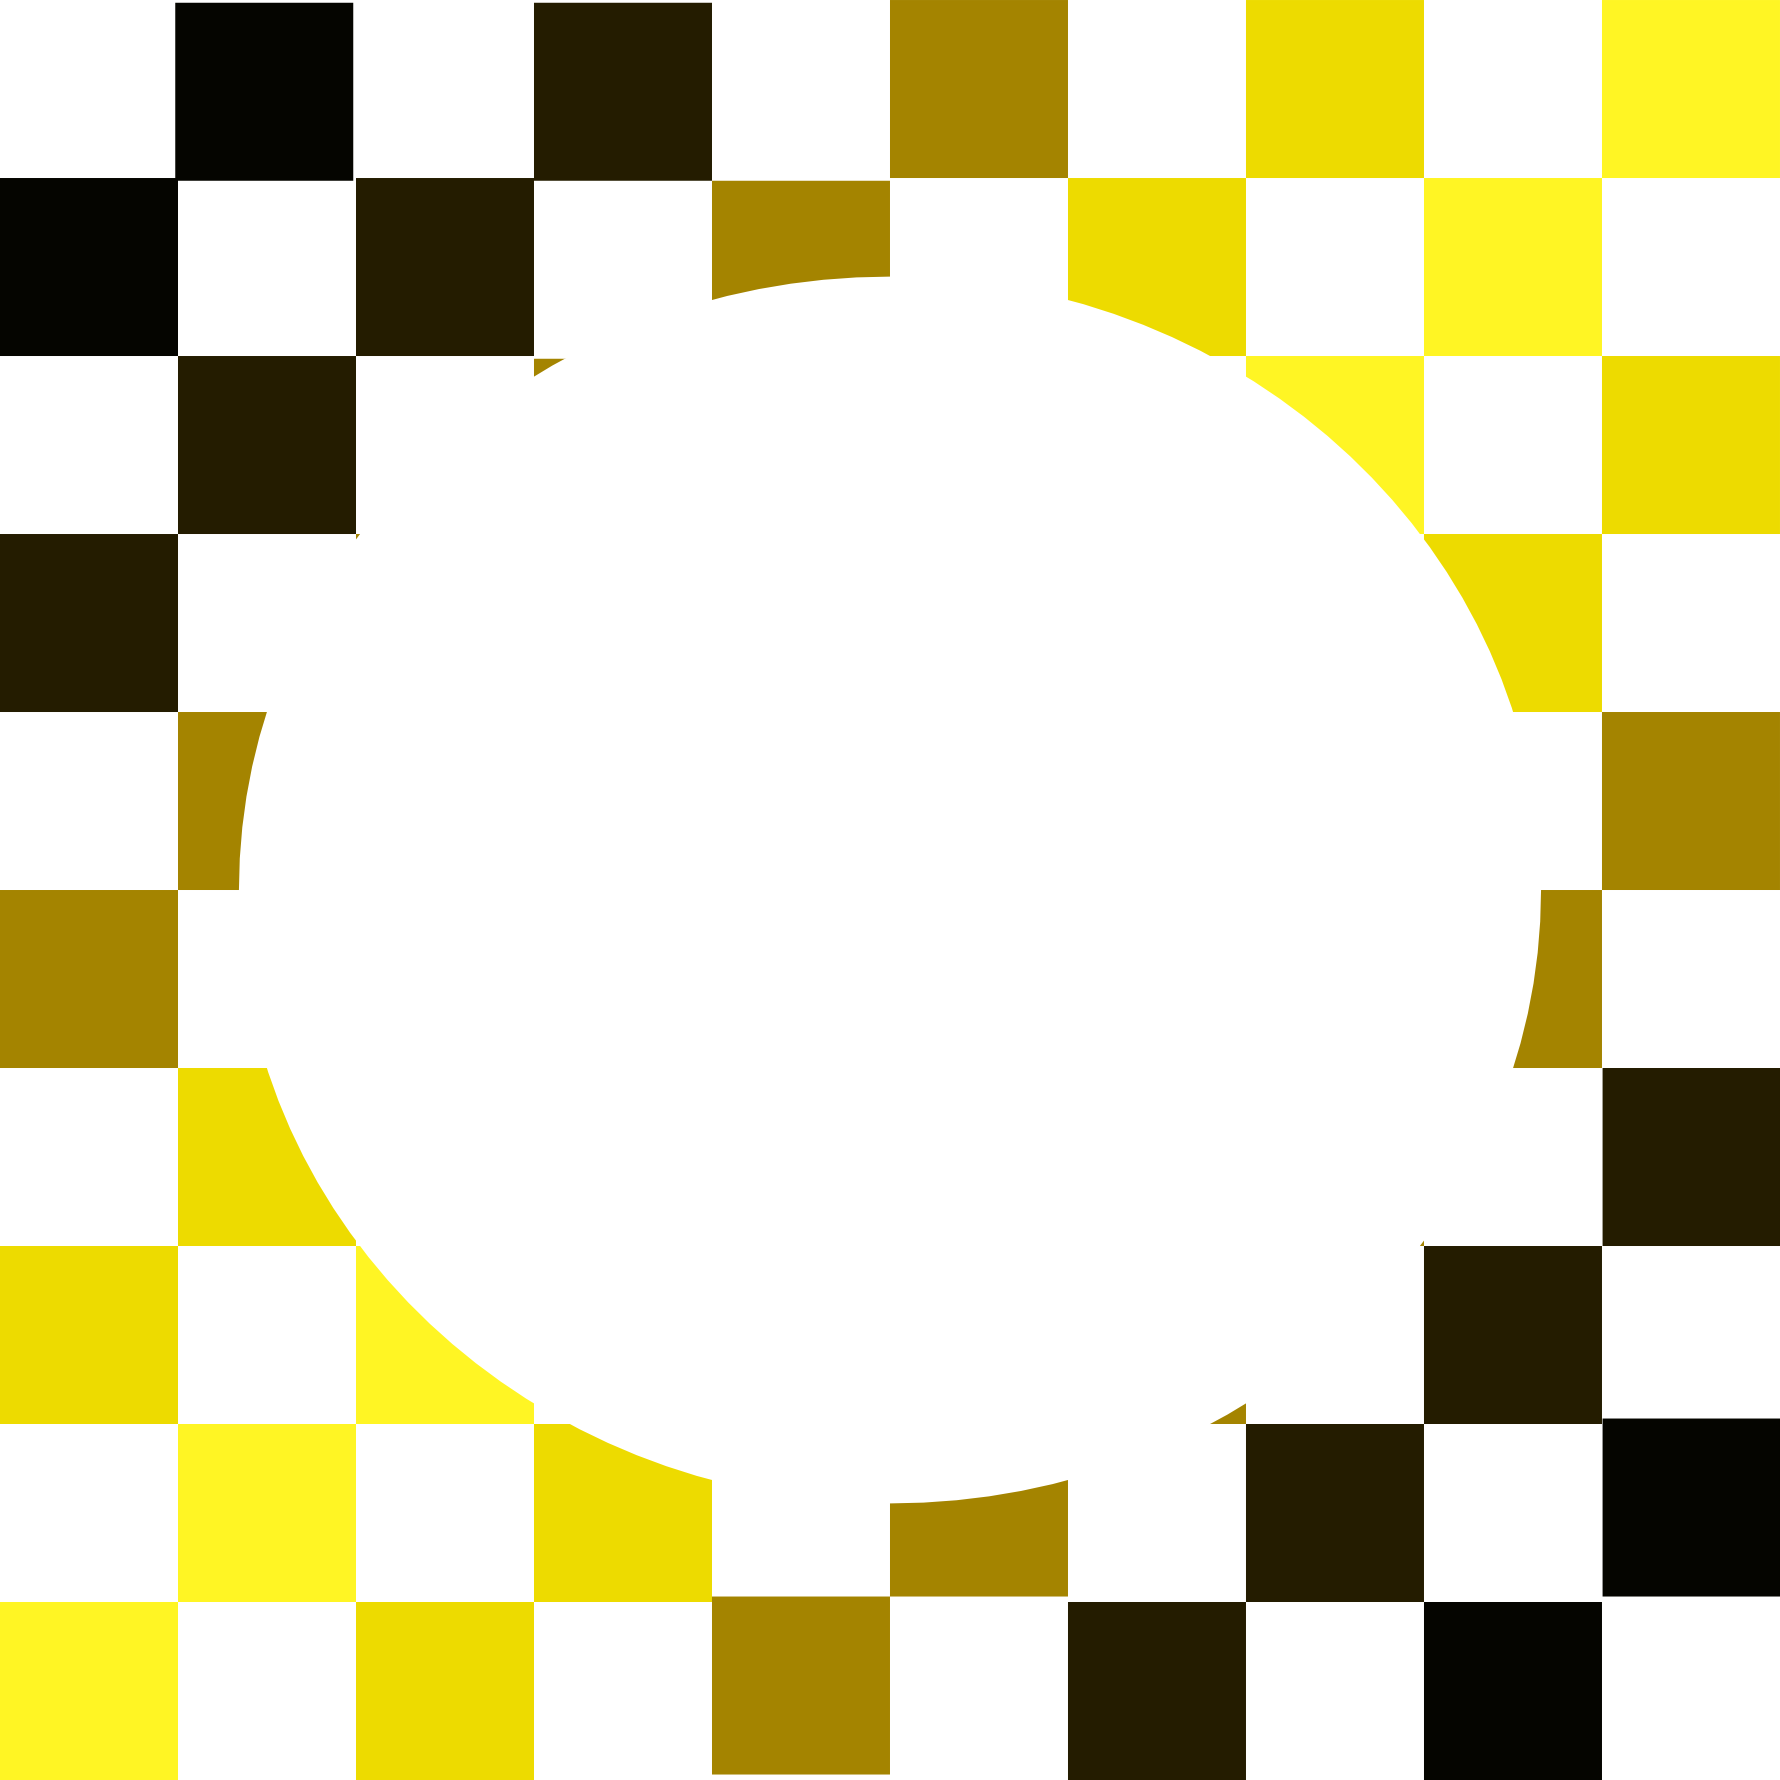
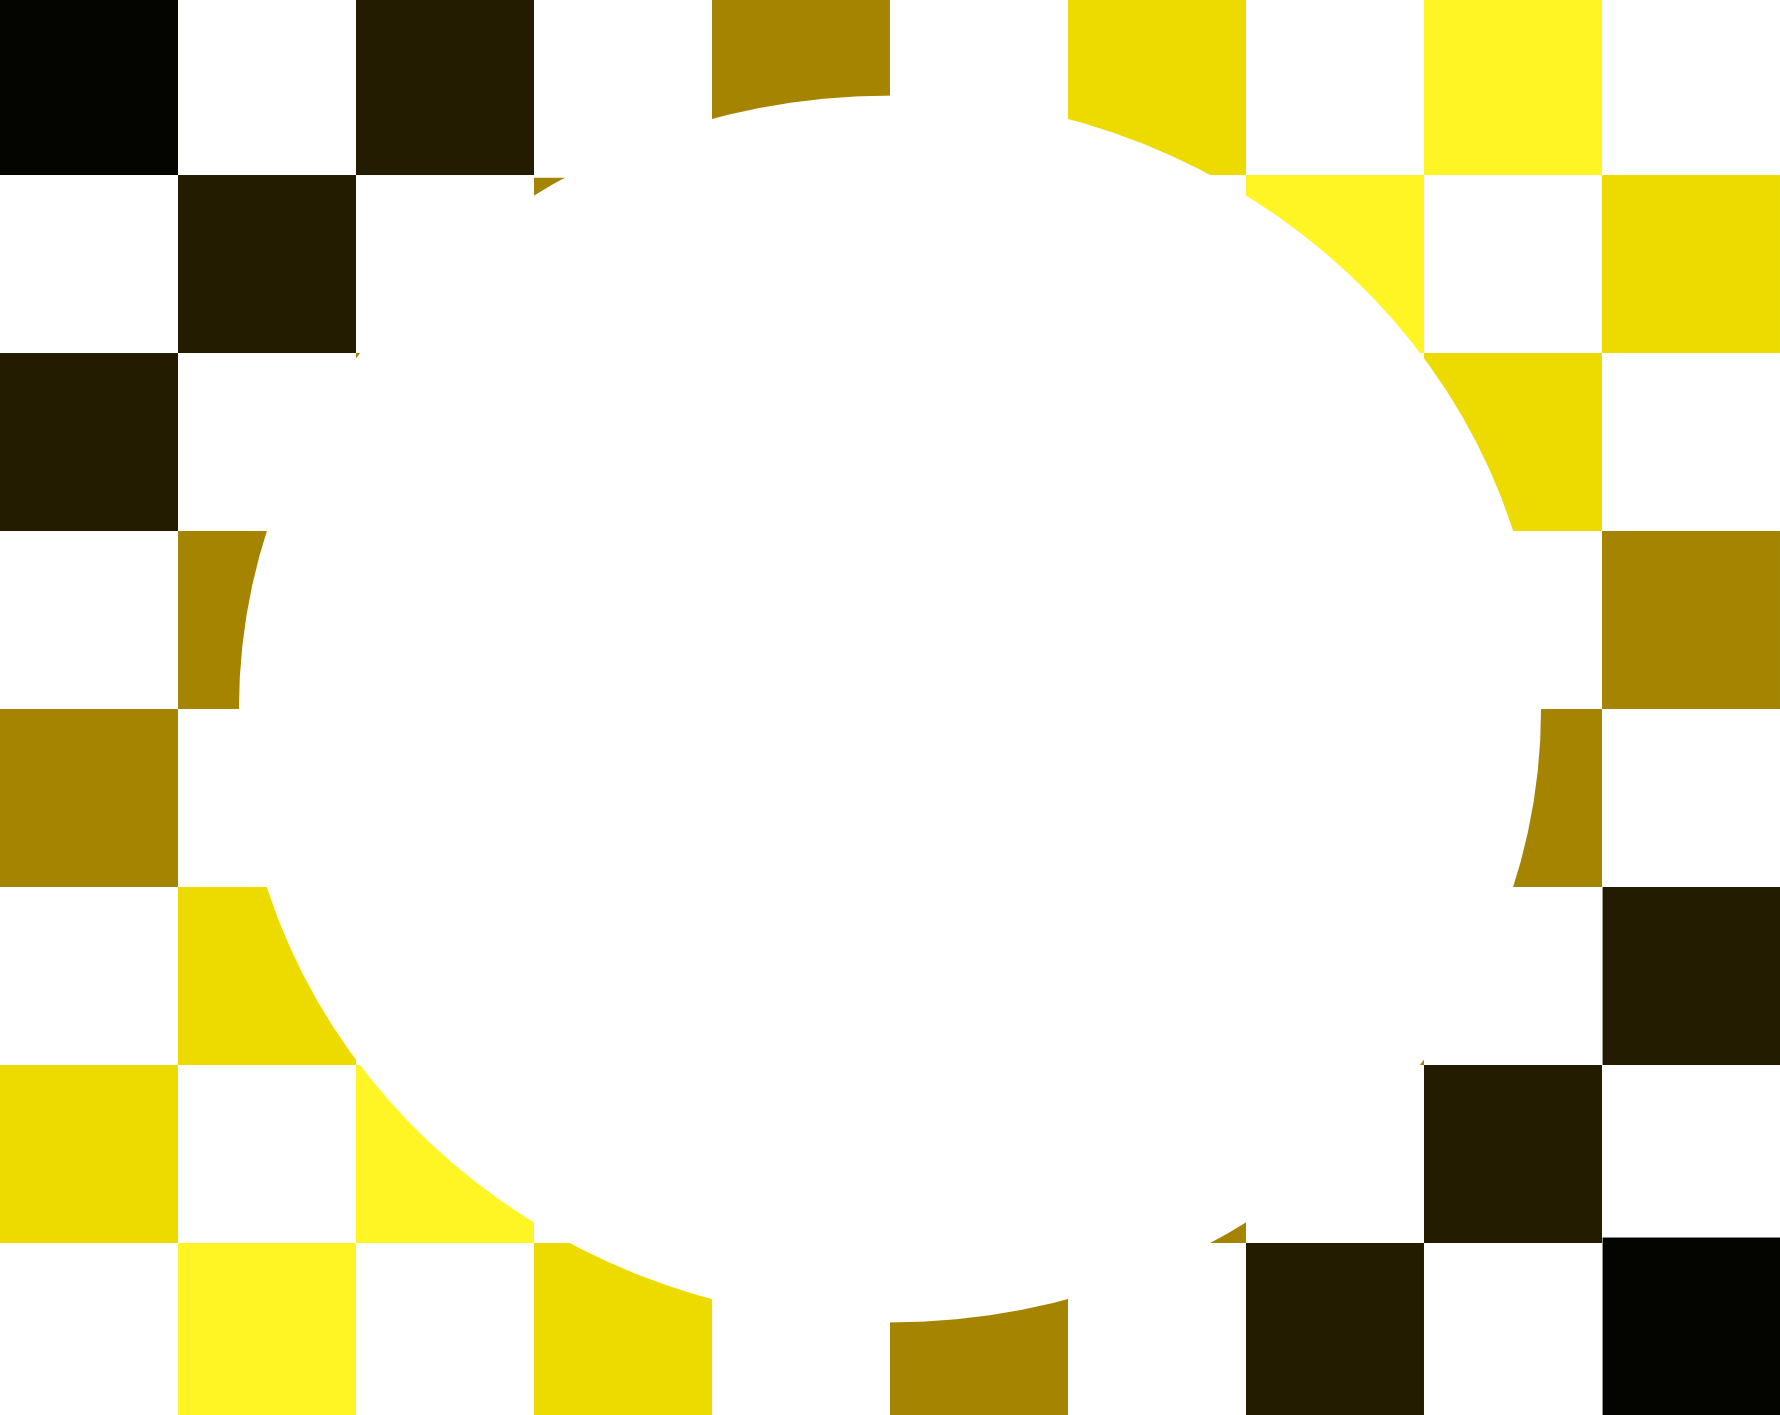
Transferred the FeaturedCar component to its own file in library, imported into Splash component.

diff --git a/src/components/Splash.js b/src/components/Splash.js
@@ -3,9 +3,9 @@ import PropTypes from 'prop-types';
 import styled from 'styled-components';
 import LoadingMessage from './library/LoadingMessage';
 import Buzzphrase from './library/Buzzphrase';
+import FeaturedCar from './library/FeaturedCar';
 import Modelphrase from './library/Modelphrase';
 import SplashButtons from './library/SplashButtons';
-import frameYellow from '../assets/images/FrameYellowB.png';
 import road1 from '../assets/images/roads/road1.png';
 
 const SplashContainer = styled.div`
@@ -45,43 +45,6 @@ const MainContainer = styled.div`
 
   @media (min-width: 768px) {
     min-width: 480px;
-  }
-`;
-
-const FeaturedCar = styled.div`
-  height: 79.5vw;
-  width: 100vw;
-  max-height: calc(0.795 * 360px);
-  max-width: 360px;
-  background-image: url(${frameYellow});
-  background-size: contain;
-  background-position: center;
-  background-repeat: no-repeat;
-  display: flex;
-  flex-flow: column nowrap;
-  justify-content: center;
-  align-items: center;
-
-  @media (min-width: 360px) {
-    min-width: 360px;
-  }
-
-  @media (min-width: 460px) {
-    height: calc(0.795 * 360px);
-    min-height: calc(0.795 * 360px);
-    width: 360px;
-    min-width: 360px;
-  }
-
-  @media (min-width: 768px) {
-    height: calc(0.795 * 480px);
-    min-height: calc(0.795 * 480px);
-    width: 480px;
-    min-width: 480px;
-  }
-
-  img {
-    width: 95%;
   }
 `;
 

diff --git a/src/components/library/FeaturedCar.js b/src/components/library/FeaturedCar.js
@@ -1,0 +1,41 @@
+import styled from 'styled-components';
+import frameYellow from '../../assets/images/FrameYellow.png';
+
+const FeaturedCar = styled.div`
+  height: 79.5vw;
+  width: 100vw;
+  max-height: calc(0.795 * 360px);
+  max-width: 360px;
+  background-image: url(${frameYellow});
+  background-size: contain;
+  background-position: center;
+  background-repeat: no-repeat;
+  display: flex;
+  flex-flow: column nowrap;
+  justify-content: center;
+  align-items: center;
+
+  @media (min-width: 360px) {
+    min-width: 360px;
+  }
+
+  @media (min-width: 460px) {
+    height: calc(0.795 * 360px);
+    min-height: calc(0.795 * 360px);
+    width: 360px;
+    min-width: 360px;
+  }
+
+  @media (min-width: 768px) {
+    height: calc(0.795 * 480px);
+    min-height: calc(0.795 * 480px);
+    width: 480px;
+    min-width: 480px;
+  }
+
+  img {
+    width: 95%;
+  }
+`;
+
+export default FeaturedCar;
